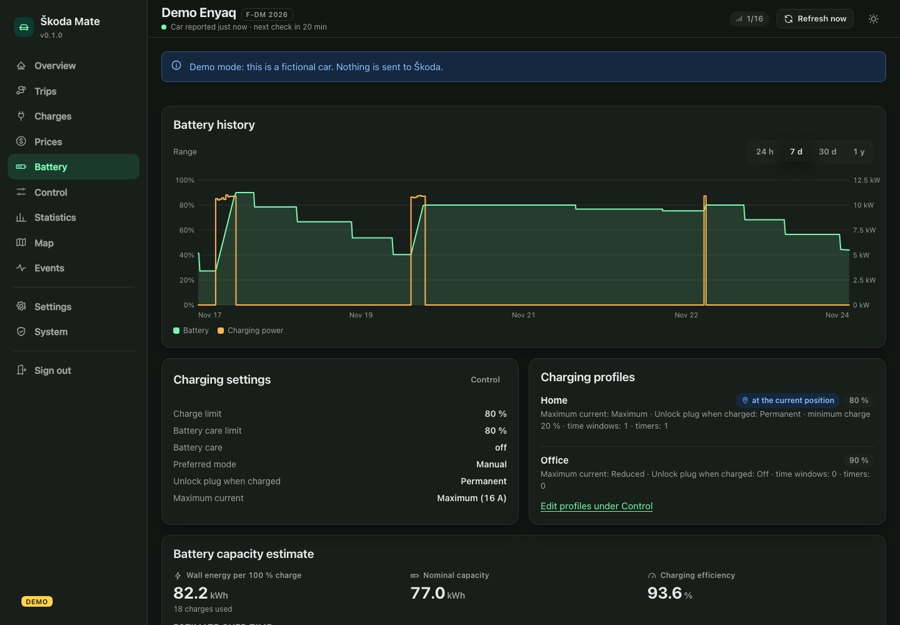
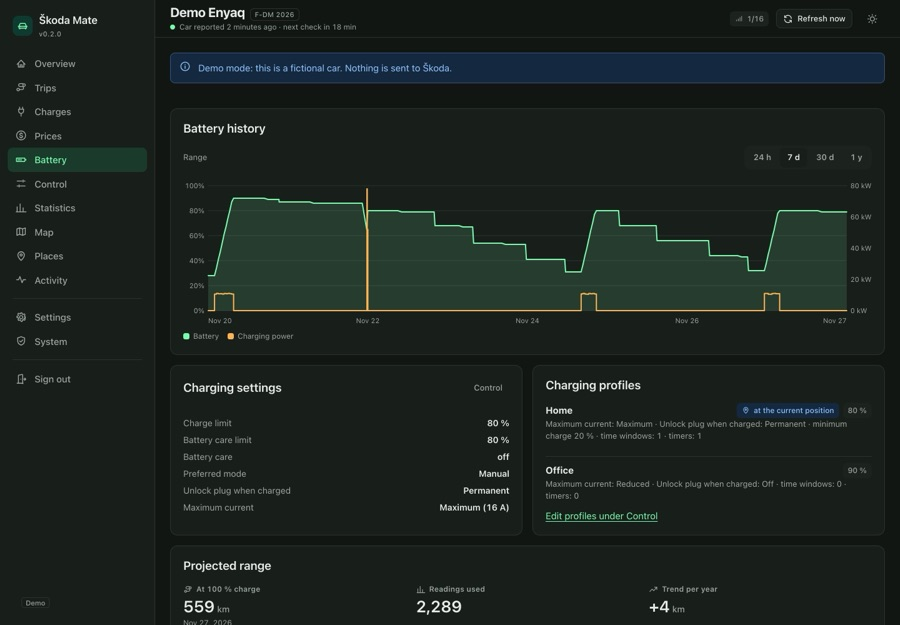
docs: refresh screenshots and add Places and Activity
Replace the eight demo screenshots, taken before the Places and
Activity pages existed, with fresh captures from the current demo
(dark theme, English, v0.2.0): Overview, Trips, Charges, Battery,
Control, Statistics, Map and System.

Add two new shots for the pages the section did not show yet:
Places (named places with radius and prices on the map) and
Activity (day timeline with drive, charge, climate and parked).
The table now covers all dashboard pages, two per row as before.

Same 900x625 JPEG dimensions as the old images, captured at 2x and
downscaled.

diff --git a/README.md b/README.md
@@ -50,8 +50,10 @@ From the built-in demo (`DEMO=1`): a fictional Enyaq with 60 days of history, no
 | ![Charges](docs/screenshots/charges.jpg) | ![Battery](docs/screenshots/battery.jpg) |
 | **Control** | **Statistics** |
 | ![Control](docs/screenshots/control.jpg) | ![Statistics](docs/screenshots/statistics.jpg) |
-| **Map** | **System** |
-| ![Map](docs/screenshots/map.jpg) | ![System](docs/screenshots/system.jpg) |
+| **Map** | **Places** |
+| ![Map](docs/screenshots/map.jpg) | ![Places](docs/screenshots/places.jpg) |
+| **Activity** | **System** |
+| ![Activity](docs/screenshots/activity.jpg) | ![System](docs/screenshots/system.jpg) |
 
 ## Install
 
